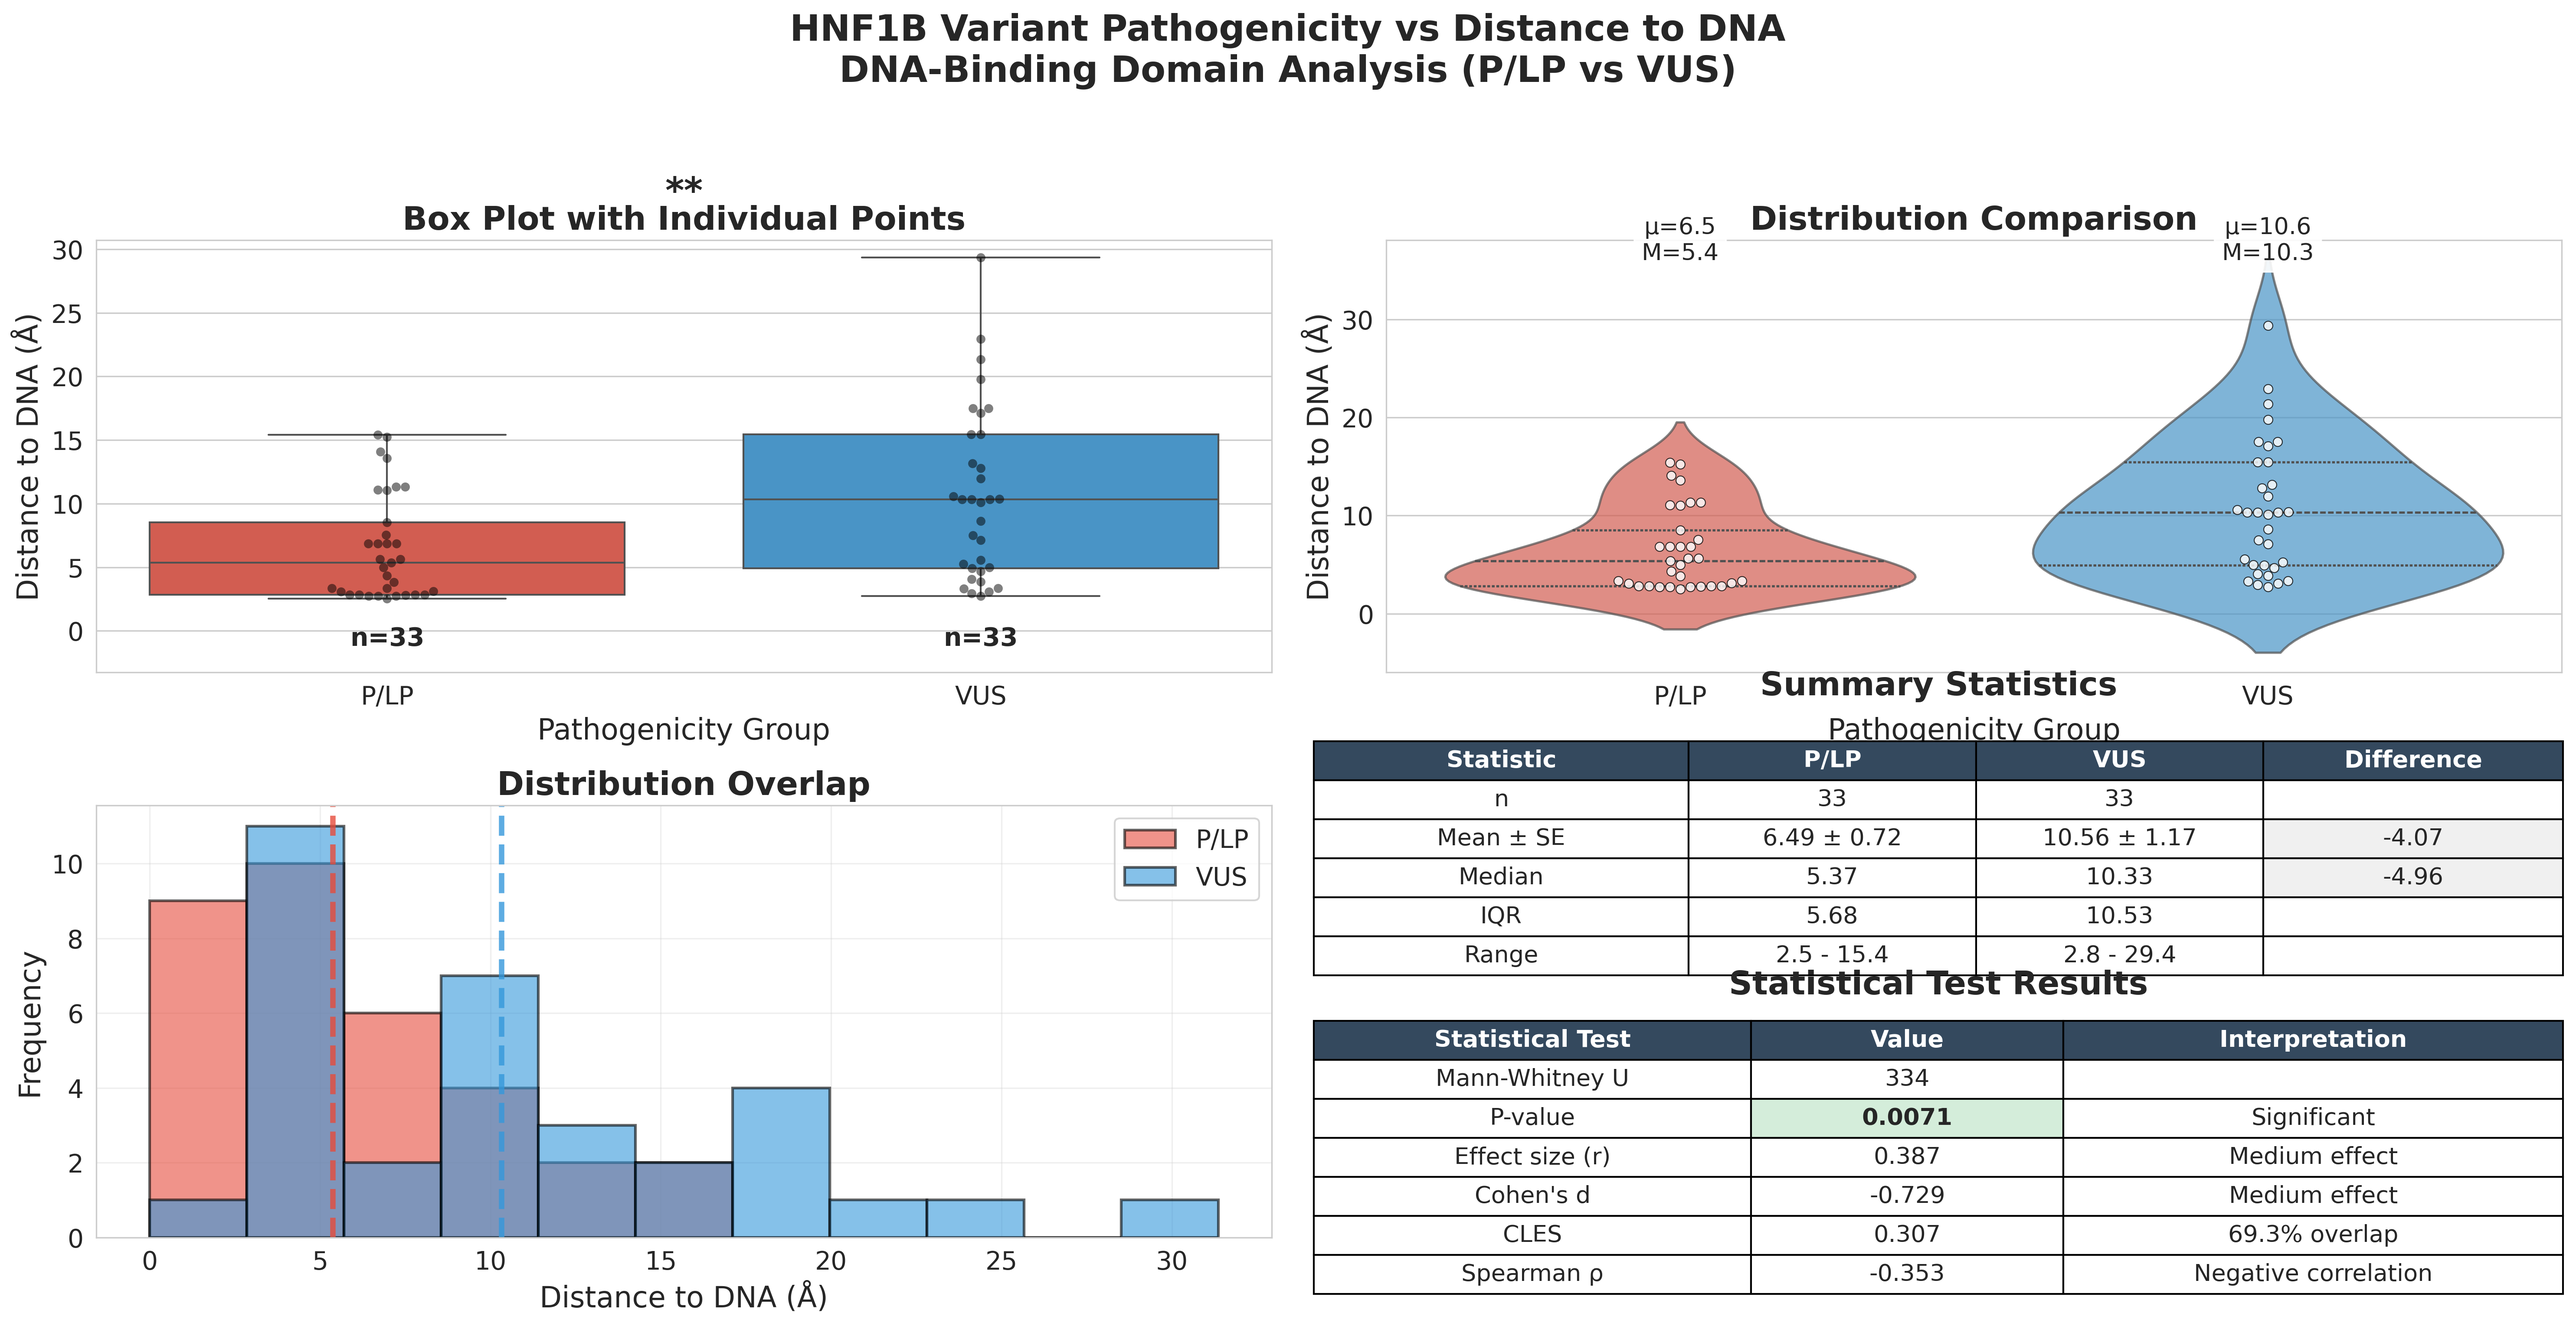
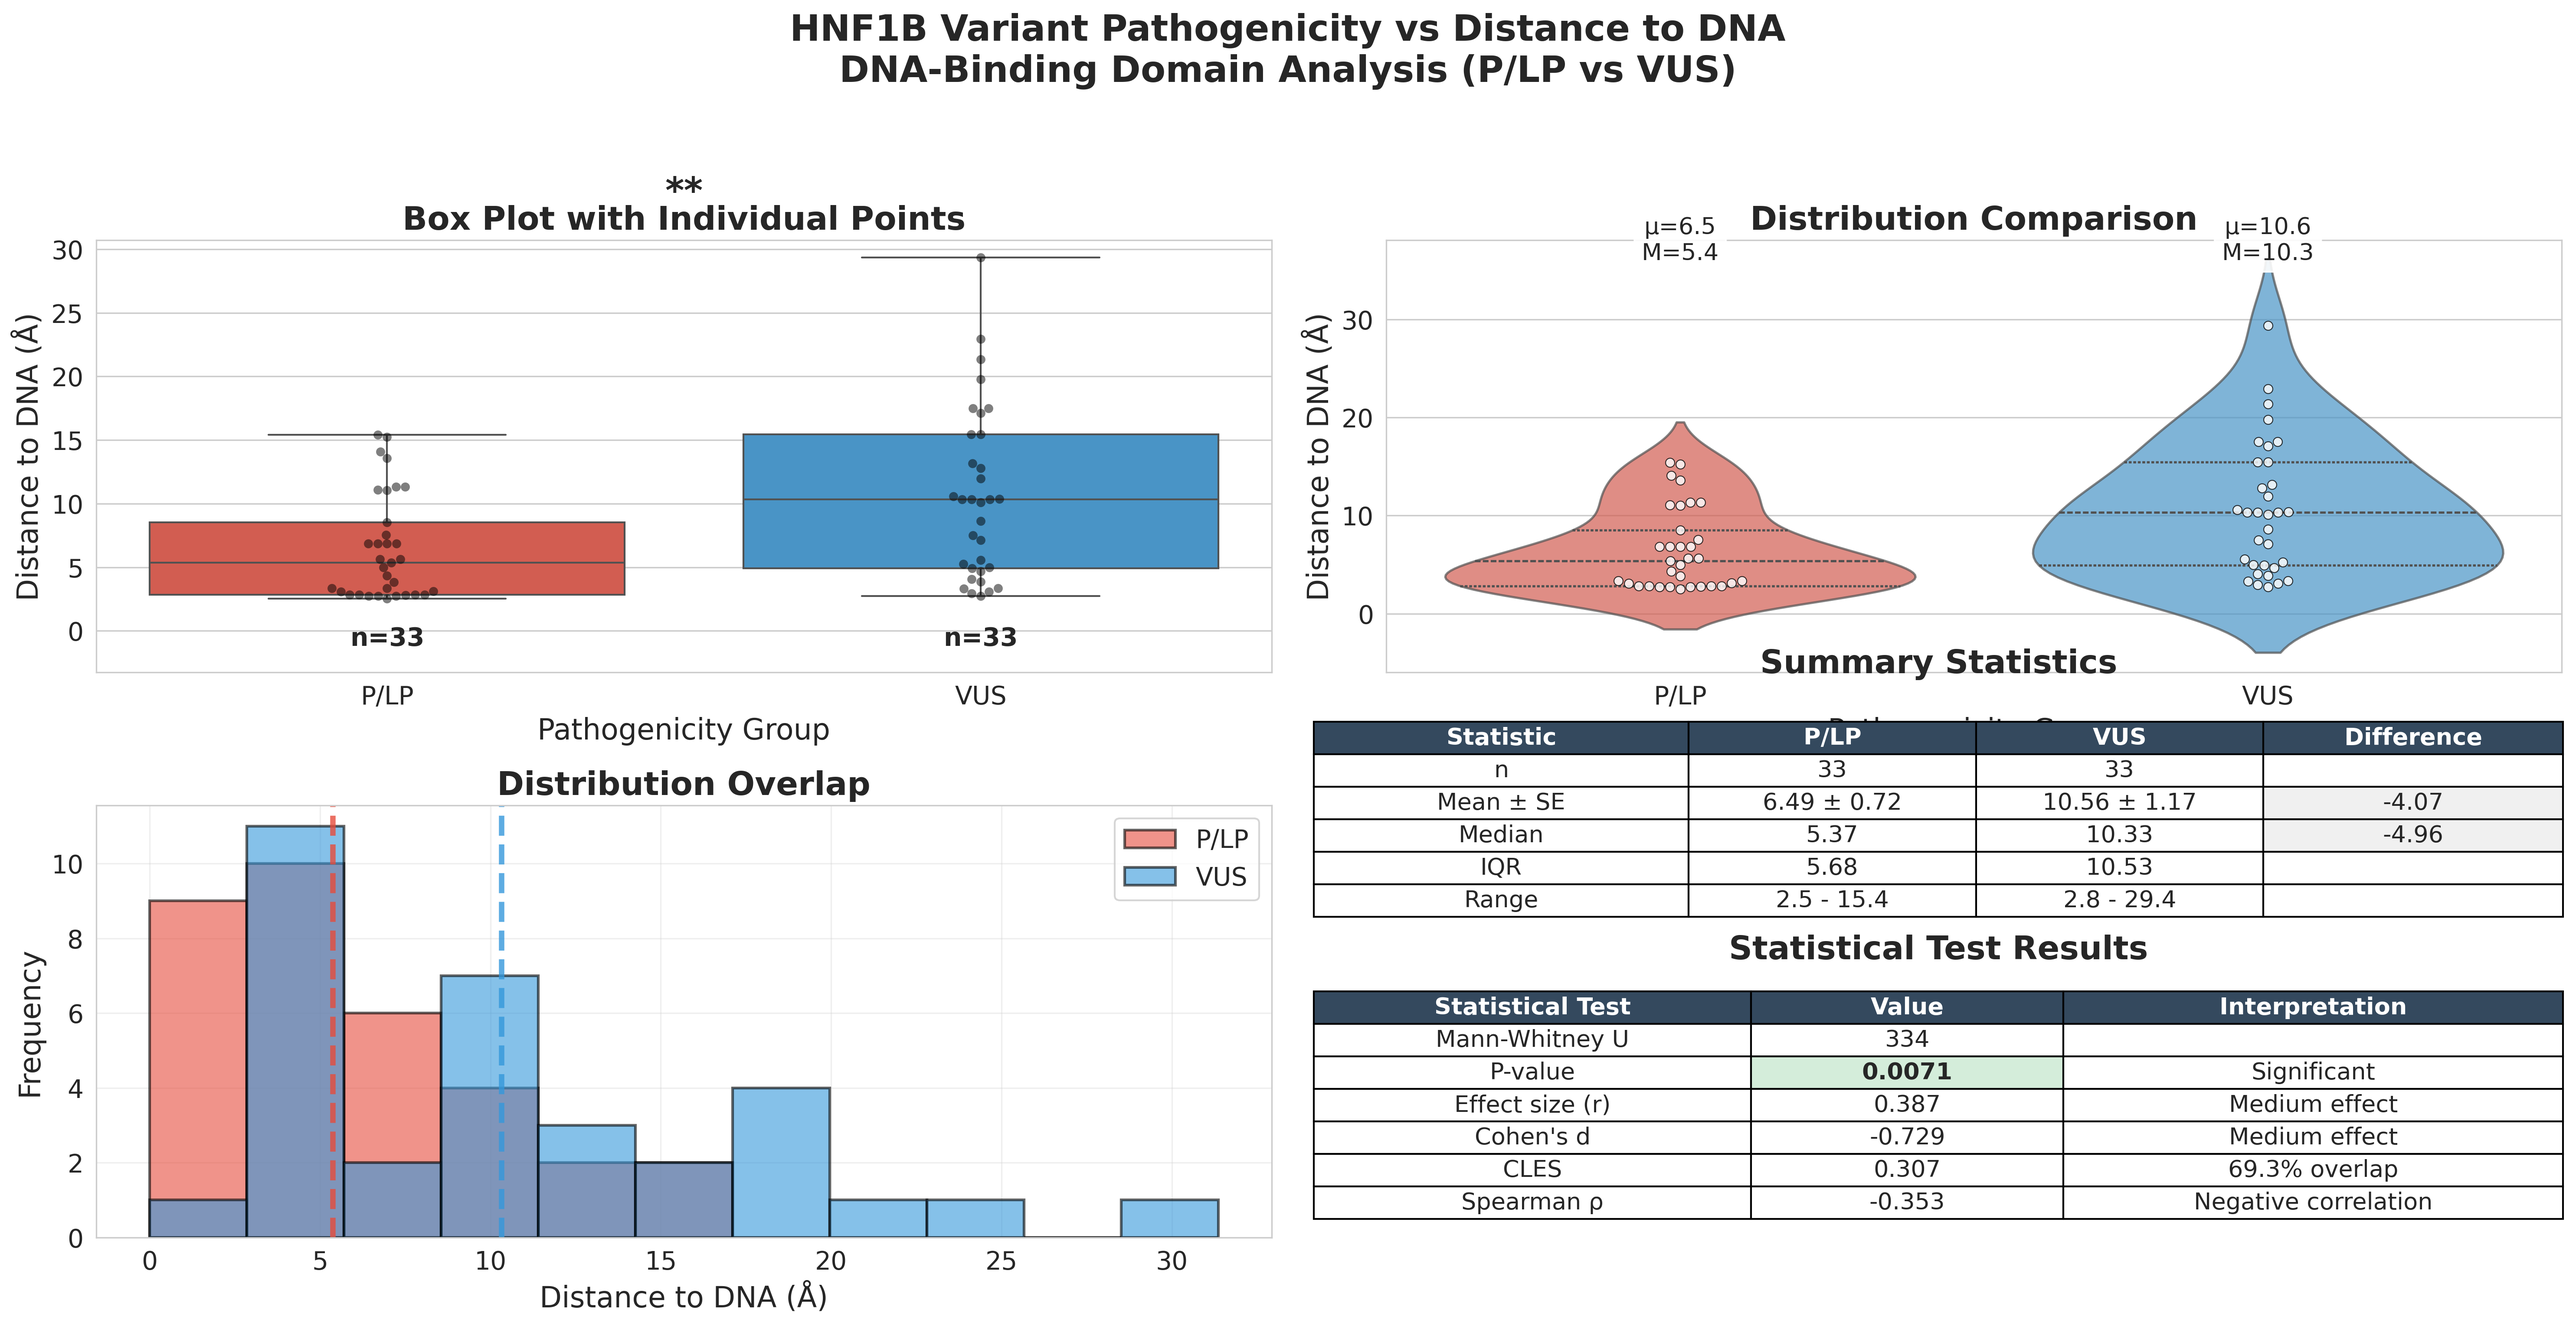
feat: add interactive error bars toggle to statistics.html and fix plot overlap in analysis script
- Add checkbox control to show/hide 95% CI error bars in statistics.html
  - Use high-contrast colors (dark red/blue) for error bar visibility
  - Fix table positioning in analyze-variant-distances.py to prevent overlap
  - Adjust table scaling from 1.8 to 1.5 for better layout fit
  - Remove unnecessary 3-group analysis code from Python script

Changed region(s): [[0.4984, 0.4969, 0.9968, 0.9627], [0.9657, 0.6832, 0.9968, 0.7143]]

diff --git a/statistics.html b/statistics.html
@@ -243,8 +243,13 @@
                 <span class="value-display" id="bandwidthValue">2.0</span>
                 <button class="btn-download" onclick="resetBandwidth()">Reset</button>
             </div>
+            <div class="control-group">
+                <label for="errorBarsToggle">Show Error Bars:</label>
+                <input type="checkbox" id="errorBarsToggle" onchange="toggleErrorBars()">
+                <span style="font-size: 0.9rem; color: #6c757d;">Display 95% confidence intervals around means</span>
+            </div>
             <div style="font-size: 0.9rem; color: #6c757d; margin-top: 10px;">
-                💡 Tip: Lower values reveal more detail and potential subgroups; higher values show smoother overall distribution
+                💡 Tip: Lower values reveal more detail and potential subgroups; higher values show smoother overall distribution. Error bars show statistical uncertainty.
             </div>
         </div>
         
@@ -315,11 +320,12 @@
             return [];
         }
         
-        // Global variable for current bandwidth
+        // Global variables for current settings
         let currentBandwidth = 2.0;
+        let showErrorBars = false;
         
         // Create the violin plot
-        async function createViolinPlot(bandwidth = 2.0) {
+        async function createViolinPlot(bandwidth = 2.0, includeErrorBars = false) {
             const allData = await loadData();
             
             // Separate data by group
@@ -427,6 +433,22 @@
                     font: {color: 'white'}
                 }
             };
+            
+            // Calculate statistics for error bars
+            const plpDistances = plpData.map(d => d.distance_to_dna);
+            const vusDistances = vusData.map(d => d.distance_to_dna);
+            
+            const plpMean = plpDistances.reduce((a, b) => a + b, 0) / plpDistances.length;
+            const vusMean = vusDistances.reduce((a, b) => a + b, 0) / vusDistances.length;
+            
+            const plpStd = Math.sqrt(plpDistances.reduce((sq, n) => sq + Math.pow(n - plpMean, 2), 0) / (plpDistances.length - 1));
+            const vusStd = Math.sqrt(vusDistances.reduce((sq, n) => sq + Math.pow(n - vusMean, 2), 0) / (vusDistances.length - 1));
+            
+            const plpSEM = plpStd / Math.sqrt(plpDistances.length);
+            const vusSEM = vusStd / Math.sqrt(vusDistances.length);
+            
+            const plpCI95 = 1.96 * plpSEM;
+            const vusCI95 = 1.96 * vusSEM;
             
             // Calculate max y value for positioning annotations
             const allYValues = [...plpData, ...vusData].map(d => d.distance_to_dna);
@@ -579,8 +601,71 @@
                 }
             };
             
+            // Create error bar traces if enabled
+            const traces = [trace1, trace2];
+            
+            if (includeErrorBars) {
+                // Error bars for P/LP - using darker, more contrasting colors
+                const errorBarPLP = {
+                    type: 'scatter',
+                    x: ['P/LP'],
+                    y: [plpMean],
+                    error_y: {
+                        type: 'data',
+                        array: [plpCI95],
+                        visible: true,
+                        thickness: 3,
+                        width: 10,
+                        color: '#8b0000'  // Dark red for better contrast
+                    },
+                    mode: 'markers',
+                    marker: {
+                        size: 10,
+                        color: '#8b0000',  // Dark red
+                        symbol: 'diamond',
+                        line: {
+                            color: 'white',
+                            width: 1
+                        }
+                    },
+                    name: 'Mean ± 95% CI',
+                    showlegend: false,
+                    hovertemplate: `<b>P/LP Mean</b><br>Mean: ${plpMean.toFixed(2)} Å<br>95% CI: ± ${plpCI95.toFixed(2)} Å<extra></extra>`
+                };
+                
+                // Error bars for VUS - using darker, more contrasting colors
+                const errorBarVUS = {
+                    type: 'scatter',
+                    x: ['VUS'],
+                    y: [vusMean],
+                    error_y: {
+                        type: 'data',
+                        array: [vusCI95],
+                        visible: true,
+                        thickness: 3,
+                        width: 10,
+                        color: '#00008b'  // Dark blue for better contrast
+                    },
+                    mode: 'markers',
+                    marker: {
+                        size: 10,
+                        color: '#00008b',  // Dark blue
+                        symbol: 'diamond',
+                        line: {
+                            color: 'white',
+                            width: 1
+                        }
+                    },
+                    name: 'Mean ± 95% CI',
+                    showlegend: false,
+                    hovertemplate: `<b>VUS Mean</b><br>Mean: ${vusMean.toFixed(2)} Å<br>95% CI: ± ${vusCI95.toFixed(2)} Å<extra></extra>`
+                };
+                
+                traces.push(errorBarPLP, errorBarVUS);
+            }
+            
             // Create the plot
-            Plotly.newPlot('violinPlot', [trace1, trace2], layout, config);
+            Plotly.newPlot('violinPlot', traces, layout, config);
         }
         
         // Download functions
@@ -610,7 +695,7 @@
             const valueDisplay = document.getElementById('bandwidthValue');
             
             // Initialize plot
-            createViolinPlot(currentBandwidth);
+            createViolinPlot(currentBandwidth, showErrorBars);
             
             // Update plot on slider change
             slider.addEventListener('input', function() {
@@ -620,7 +705,7 @@
             
             // Debounced plot update on slider release
             slider.addEventListener('change', function() {
-                createViolinPlot(currentBandwidth);
+                createViolinPlot(currentBandwidth, showErrorBars);
             });
         });
         
@@ -629,7 +714,13 @@
             currentBandwidth = 2.0;
             document.getElementById('bandwidthSlider').value = 2.0;
             document.getElementById('bandwidthValue').textContent = '2.0';
-            createViolinPlot(currentBandwidth);
+            createViolinPlot(currentBandwidth, showErrorBars);
+        }
+        
+        // Toggle error bars function
+        function toggleErrorBars() {
+            showErrorBars = document.getElementById('errorBarsToggle').checked;
+            createViolinPlot(currentBandwidth, showErrorBars);
         }
     </script>
 </body>
